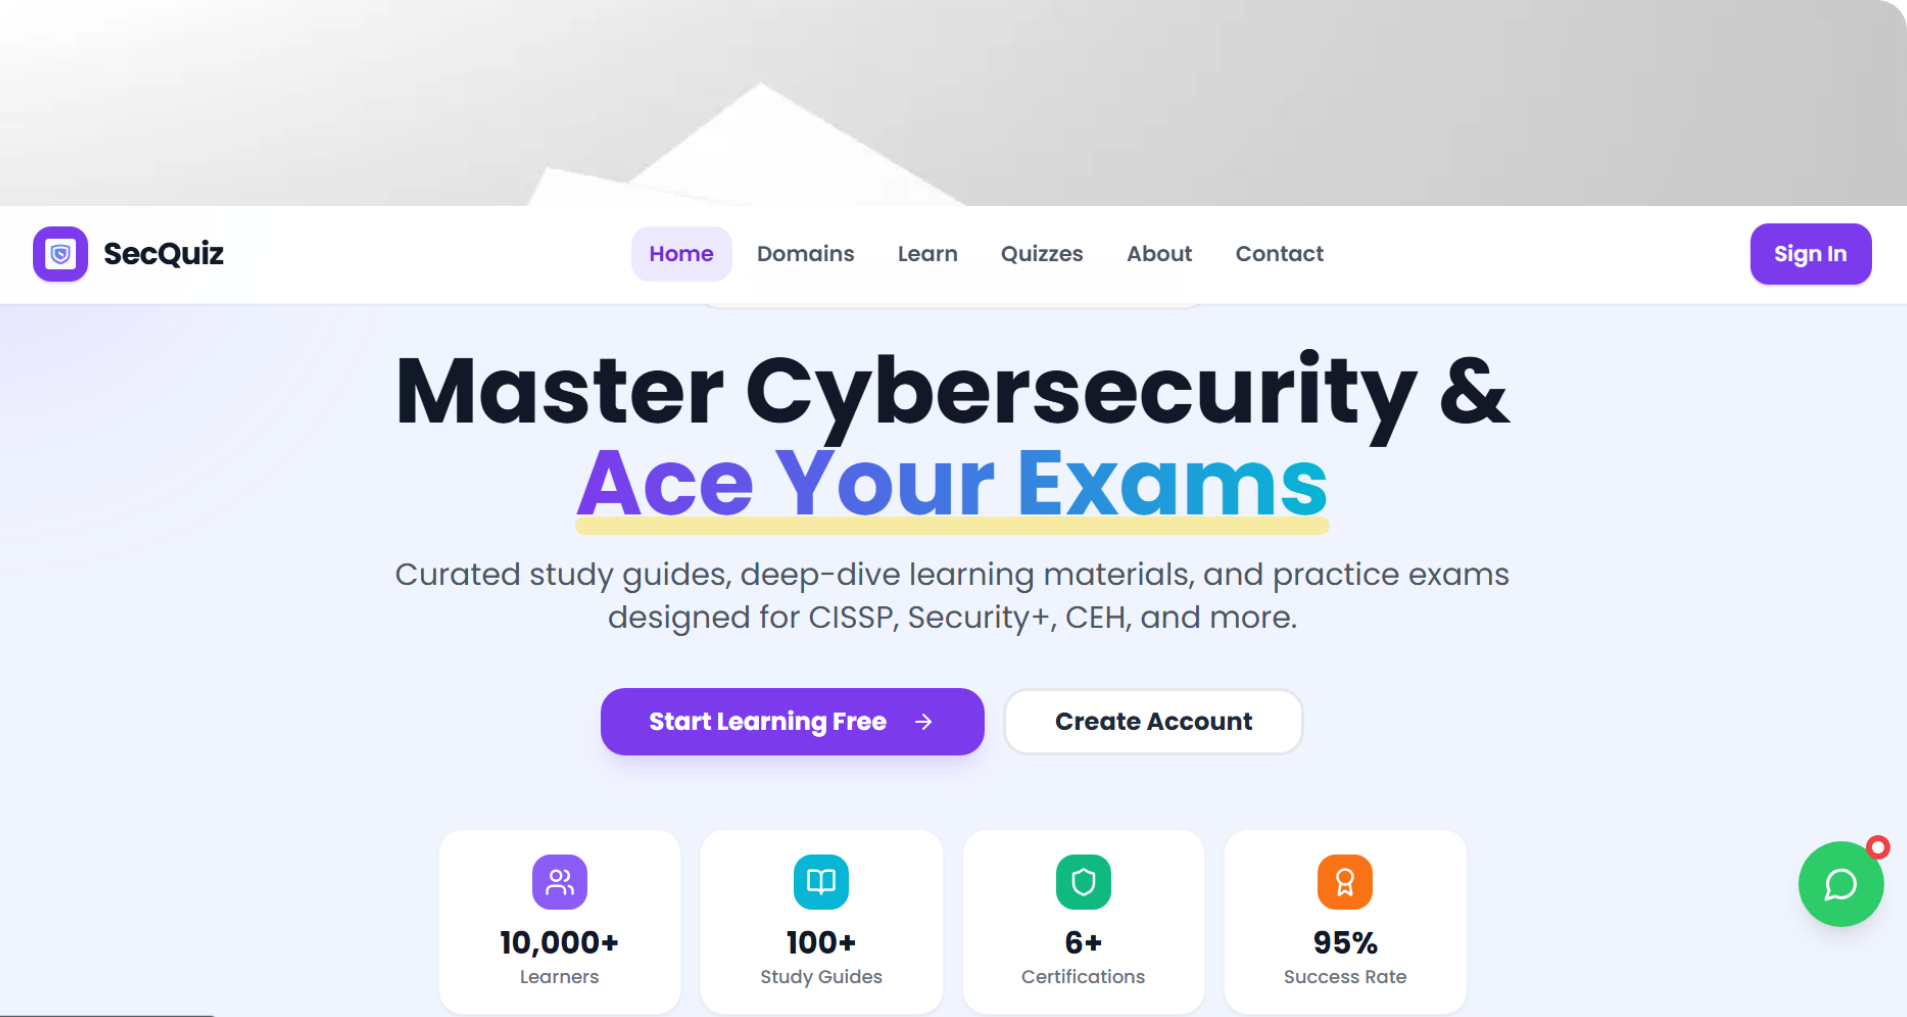
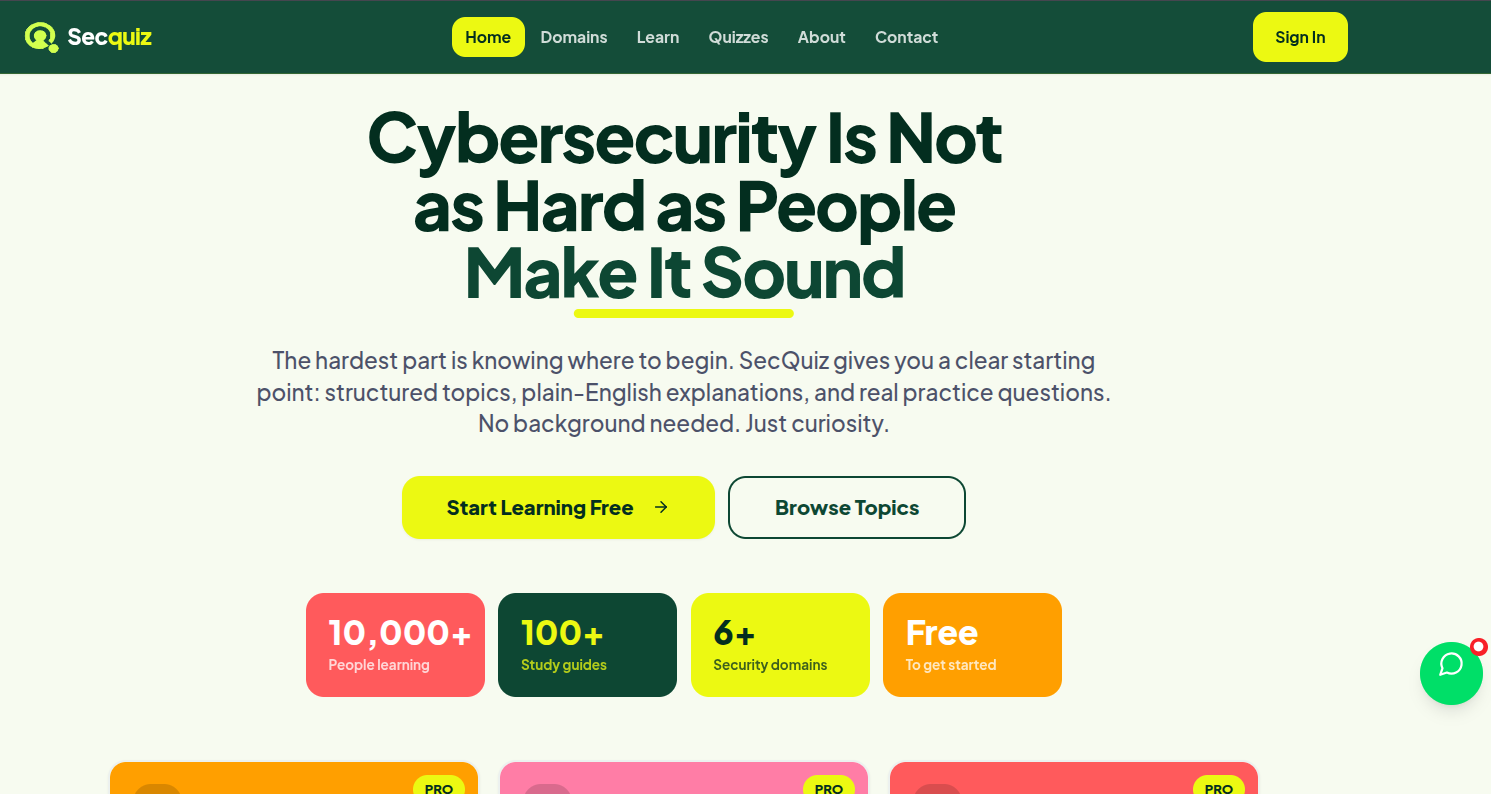
updated project secquic UI

diff --git a/components/work/cards/WebProjectCard.tsx b/components/work/cards/WebProjectCard.tsx
@@ -28,44 +28,35 @@ export default function WebProjectCard({ item }: Props) {
   // ── Featured hero layout ────────────────────────────────────────────────────
   if (item.featured) {
     return (
-      <article className="relative rounded-2xl overflow-hidden group border border-white/10 hover:border-teal-500/40 transition-all duration-300 hover:-translate-y-1 hover:shadow-[0_20px_60px_rgba(13,148,136,0.15)]">
-        {/* Full-bleed image */}
-        <div className="relative h-72 sm:h-96 w-full overflow-hidden">
+      <article className="rounded-2xl overflow-hidden group border border-white/10 hover:border-teal-500/40 transition-all duration-300 hover:-translate-y-1 hover:shadow-[0_20px_60px_rgba(13,148,136,0.15)]">
+        <div className="relative aspect-video w-full overflow-hidden bg-[#f6faef]">
           {!imgError ? (
             <Image
               src={item.thumbnail}
               alt={`${item.title} screenshot`}
               fill
-              sizes="100vw"
-              className="object-cover group-hover:scale-[1.03] transition-transform duration-700"
-              priority
+              sizes="(max-width: 1152px) 100vw, 1152px"
+              className="object-contain"
+              loading="lazy"
               onError={() => setImgError(true)}
             />
           ) : (
-            <div className="w-full h-full bg-white/5" />
+            <div className="w-full h-full bg-white/5" aria-hidden="true" />
           )}
-          {/* Dark gradient overlay */}
-          <div className="absolute inset-0 bg-gradient-to-t from-[#0a0a0a] via-[#0a0a0a]/60 to-transparent" />
-
-          {/* Featured badge */}
-          <span className="absolute top-4 left-4 text-[10px] font-black tracking-widest uppercase px-3 py-1 rounded-full bg-teal-500/20 border border-teal-500/40 text-teal-400">
-            Featured
-          </span>
-
-          {/* Live pulse dot */}
-          <span className="absolute top-4 right-4 flex items-center gap-1.5 text-[10px] font-semibold text-green-400">
-            <span className="relative flex h-2 w-2">
-              <span className="animate-ping absolute inline-flex h-full w-full rounded-full bg-green-400 opacity-75" />
-              <span className="relative inline-flex rounded-full h-2 w-2 bg-green-400" />
-            </span>
-            Live
-          </span>
         </div>
 
-        {/* Content sits over the gradient */}
-        <div className="absolute bottom-0 left-0 right-0 p-6 sm:p-8">
-          {/* Tech tags as eyebrow */}
-          <div className="flex flex-wrap gap-1.5 mb-3">
+        <div className="bg-[#111] p-6 sm:p-8">
+          <div className="flex flex-wrap items-center gap-2 mb-4">
+            <span className="text-[10px] font-black tracking-widest uppercase px-3 py-1 rounded-full bg-teal-500/20 border border-teal-500/40 text-teal-400">
+              Featured
+            </span>
+            <span className="flex items-center gap-1.5 text-[10px] font-semibold text-green-400">
+              <span className="relative flex h-2 w-2">
+                <span className="animate-ping absolute inline-flex h-full w-full rounded-full bg-green-400 opacity-75" />
+                <span className="relative inline-flex rounded-full h-2 w-2 bg-green-400" />
+              </span>
+              Live
+            </span>
             {item.tags.map((tag) => (
               <span key={tag} className="text-[10px] font-semibold bg-white/10 text-gray-300 px-2 py-0.5 rounded">
                 {tag}

diff --git a/lib/workData.ts b/lib/workData.ts
@@ -71,6 +71,17 @@ export type WorkItem = CatalogItem | SocialItem | EmailItem | WebProjectItem | V
 // ─── Data ────────────────────────────────────────────────────────────────────
 
 export const WORK_ITEMS: WorkItem[] = [
+  {
+    id: "secquiz",
+    category: "web",
+    featured: true,
+    title: "Secquiz App",
+    description: "10,000+ people are learning cybersecurity on Secquiz. Structured topics, plain-English explanations, and real practice questions across 6+ security domains. No background needed.",
+    thumbnail: "/secquiz.png",
+    liveUrl: "https://secquizz.vercel.app/",
+    tags: ["React", "TypeScript", "Gamification"],
+  },
+
   // ── Email Designs ─────────────────────────────────────────────────────────
   {
     id: "email-h2booster",
@@ -227,7 +238,6 @@ export const WORK_ITEMS: WorkItem[] = [
   {
     id: "yawdesh",
     category: "web",
-    featured: true,
     title: "Yawdesh",
     description:
       "Designed and developed Yadesh, a digital reading platform that delivers short Christian readings designed for users with limited time.",
@@ -285,14 +295,5 @@ export const WORK_ITEMS: WorkItem[] = [
     liveUrl: "https://tizzleshop.vercel.app/",
     tags: ["Next.js", "E-commerce", "Tailwind CSS"],
   },
-  {
-    id: "secquiz",
-    category: "web",
-    title: "Secquiz App",
-    description:
-      "Cybersecurity quiz application for skill testing and certification prep. Gamified learning with leaderboards and topic-based filtering.",
-    thumbnail: "/secquiz.png",
-    liveUrl: "https://secquizz.vercel.app/",
-    tags: ["React", "TypeScript", "Gamification"],
-  },
+
 ]
